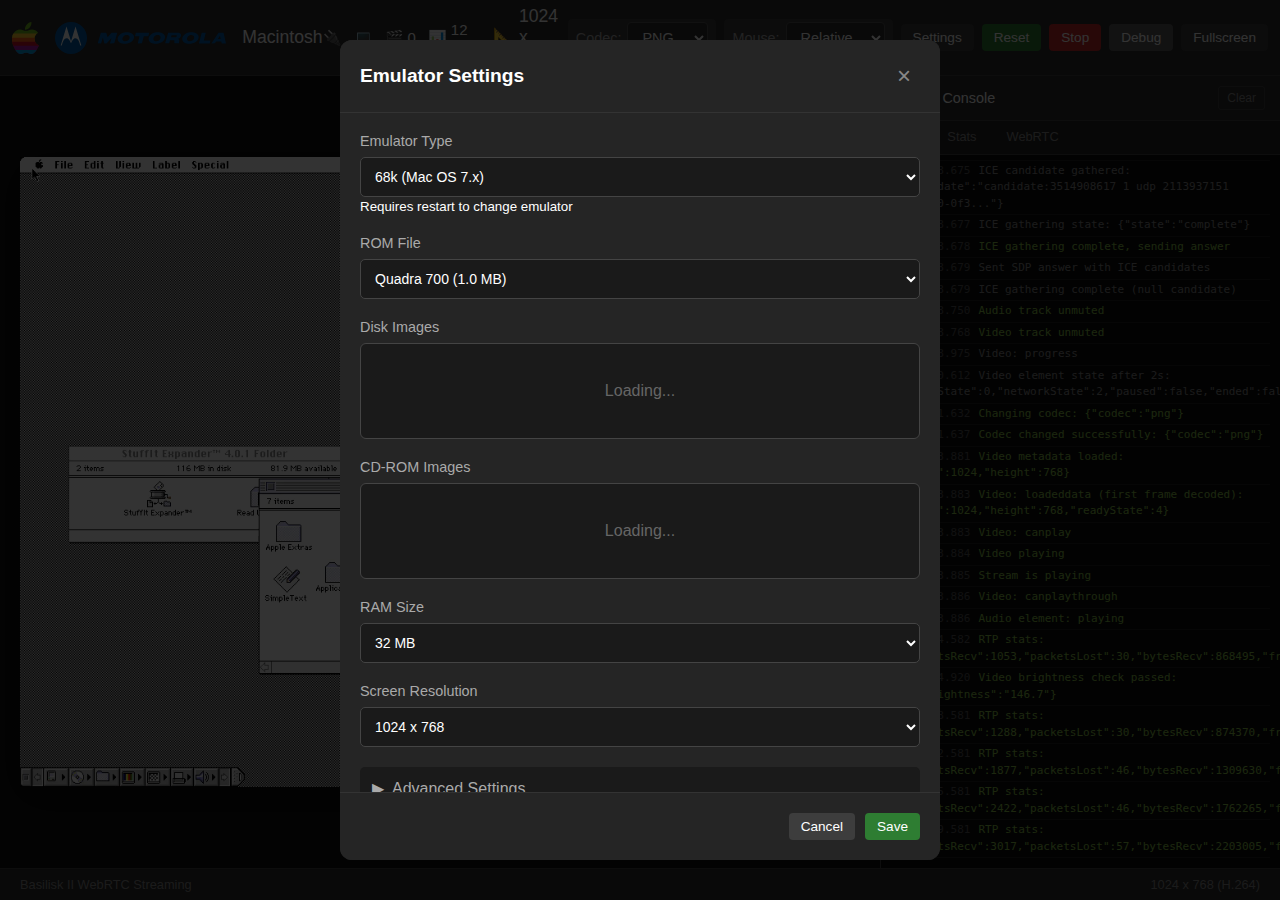
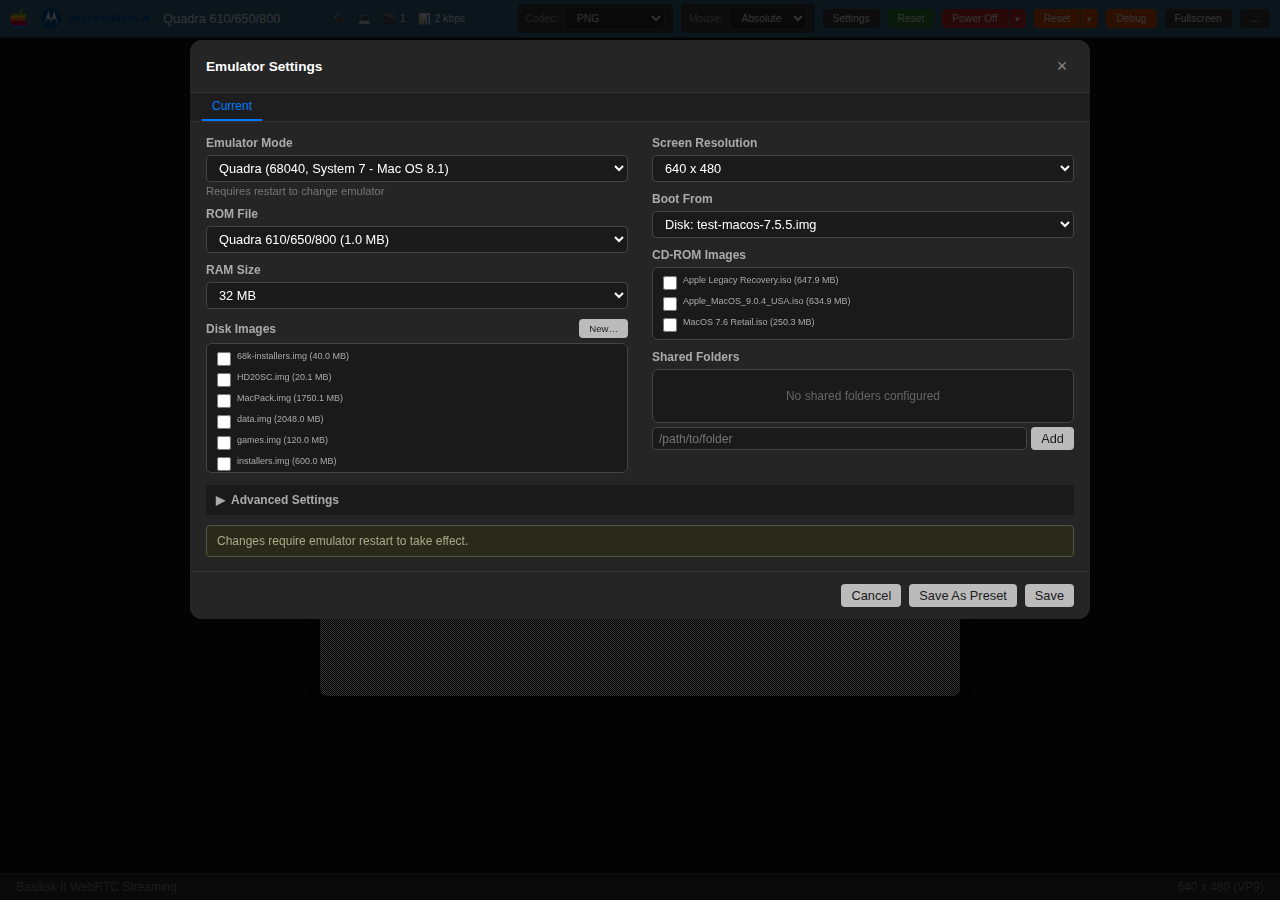
Docs: refresh README for clipboard, audio, graceful shutdown
- Promote the automation bridge feature bullet — TEXT-scrap clipboard
  is now bidirectional (commit 22ef617c) so it's no longer "on the
  roadmap." Graceful shutdown/restart are already listed.
- Add an "Optional audio" feature bullet and --audio CLI flag (audio
  became opt-in in 03940b58).
- Fix dismiss_shutdown_dialog default (true in emulator_config.h, was
  documented as false) and list the --no- variant.
- Document /api/clipboard POST and mac.scrap under /api/status.
- Expand the Logs pane description to list the five debug tabs
  (Clipboard / Log / Stats / WebRTC / Mac).
- Update testing notes: the default disk is macos-7.5.5.img (refreshed
  per-test from .bak by tests/lib/refresh_test_disk.sh, not 7.6.img),
  and the Playwright suite runs ~5 min across 54 specs.

Also refresh docs/images/browser-desktop.png and browser-config.png
from the current UI and extend tests/e2e/take-screenshot.ts with a
--config-output flag so both shots regenerate in one run.

diff --git a/tests/e2e/take-screenshot.ts b/tests/e2e/take-screenshot.ts
@@ -12,6 +12,7 @@
  *   --wait <seconds>    Time to wait after boot before screenshot (default: 15)
  *   --port <number>     HTTP port (default: 18094)
  *   --output <path>     Screenshot output path (default: /tmp/screenshot.png)
+ *   --config-output <p> Also open Settings and capture it to <p>
  *   --dismiss-dialog    Press Return to dismiss startup dialog before screenshot
  */
 
@@ -27,6 +28,7 @@ function parseArgs(): {
   wait: number;
   port: number;
   output: string;
+  configOutput: string | null;
   dismissDialog: boolean;
 } {
   const args = process.argv.slice(2);
@@ -37,6 +39,7 @@ function parseArgs(): {
     wait: 15,
     port: 18094,
     output: '/tmp/screenshot.png',
+    configOutput: null as string | null,
     dismissDialog: false,
   };
 
@@ -59,6 +62,9 @@ function parseArgs(): {
         break;
       case '--output':
         result.output = args[++i];
+        break;
+      case '--config-output':
+        result.configOutput = args[++i];
         break;
       case '--dismiss-dialog':
         result.dismissDialog = true;
@@ -131,11 +137,16 @@ async function main() {
     process.exit(1);
   }
 
-  // Build emulator args
+  // Build emulator args. --config /dev/null so we don't inherit the user's
+  // saved machine profile (which may be set to SE/System 6 etc.).
   const emuArgs = [
+    '--config', '/dev/null',
     '--backend', 'uae',
     '--port', String(opts.port),
     '--signaling-port', String(sigPort),
+    '--screen', '640x480',
+    '--ram', '32',
+    '--dismiss-shutdown-dialog',
     opts.rom,
   ];
   for (const disk of opts.disks) {
@@ -154,8 +165,9 @@ async function main() {
   let exitCode = 0;
   try {
     await waitForServer(opts.port);
-    console.log('Server ready, waiting for boot...');
+    console.log('Server ready, starting CPU...');
 
+    await fetch(`http://localhost:${opts.port}/api/emulator/start`, { method: 'POST' });
     await waitForBoot(opts.port);
     console.log('Booted to Finder.');
 
@@ -179,7 +191,11 @@ async function main() {
       headless: true,
       args: ['--use-fake-device-for-media-stream', '--use-fake-ui-for-media-stream'],
     });
-    const page = await browser.newPage({ viewport: { width: 1280, height: 900 } });
+    // Desktop shot: viewport wide enough for the top toolbar (~1050px worth
+    // of buttons) and tall enough to avoid clipping the status bar, but no
+    // more — a 1280×900 viewport drowns the 640×480 Mac in black. Resized
+    // to 1280×900 for the config shot below.
+    const page = await browser.newPage({ viewport: { width: 1100, height: 680 } });
     await page.goto(`http://localhost:${opts.port}`);
     await page.waitForTimeout(3000);
 
@@ -206,6 +222,16 @@ async function main() {
 
     await page.screenshot({ path: opts.output });
     console.log(`Screenshot saved: ${opts.output}`);
+
+    if (opts.configOutput) {
+      await page.setViewportSize({ width: 1280, height: 900 });
+      const configBtn = await page.$('#config-btn');
+      if (!configBtn) throw new Error('Config button not found in UI');
+      await configBtn.click();
+      await page.waitForTimeout(1500);  // let dropdowns populate from /api/storage
+      await page.screenshot({ path: opts.configOutput });
+      console.log(`Config screenshot saved: ${opts.configOutput}`);
+    }
 
     await browser.close();
   } catch (err) {

diff --git a/README.md b/README.md
@@ -19,7 +19,8 @@ Most-tested guest OS versions: **System 6.0.8**, **System 7.5.5**, **Mac OS 7.6.
 - **Single-port deploy** — HTTP, WebSocket signaling, PNG/WebP frames, and the HTTP-stream fallback all share one TCP listener; trivial to put behind nginx or Caddy
 - **Three transport modes** — WebSocket for PNG/WebP (works through any HTTPS proxy), HTTP long-poll for locked-down networks, WebRTC RTP for H.264/VP9 on LAN
 - **REST API** — boot status, screenshots, config, app launching, and control via HTTP endpoints
-- **Automation bridge** — launch classic apps, graceful guest shutdown and restart, with clipboard integration on the roadmap
+- **Automation bridge** — launch classic apps, graceful guest shutdown and restart, and bidirectional TEXT-scrap clipboard sync between browser and Mac OS
+- **Optional audio** — opt-in Opus-encoded audio streaming over WebRTC (`--audio`)
 - **NAT networking** — optional Unix-socket bridge (smoltcp + NAT) so the guest can reach the Internet without root
 - **Headless mode** — run without any UI for testing and automation
 
@@ -186,7 +187,7 @@ Everything you need for day-to-day use lives in the browser. The top toolbar has
 - **Settings** — machine/ROM/RAM/disks/CDs/screen + an advanced section for CPU backend, FPU, JIT, network, and the automation bridge.
 - **Start / Power Off ▾ / Reset ▾** — the split buttons distinguish a hard kill (immediate `SIGTERM`) from a graceful **Shut Down…** / **Restart…** (routed through the bridge — see below).
 - **Debug** — invokes the Programmer's Key (NMI on 68K, Cmd+Power on PPC).
-- **Logs** — toggles a live debug / stats pane.
+- **Logs** — toggles a live debug pane with tabs for **Clipboard** (bidirectional TEXT scrap sync with the host / browser), **Log**, **Stats**, **WebRTC**, and **Mac** (scrap, WindowList, and command-bridge state).
 - **Fullscreen**.
 
 The Settings dialog supports named presets and saves changes into `~/.config/mac-phoenix/config.json`. Most changes take effect on the next emulator start; codec and mouse mode apply immediately.
@@ -219,7 +220,8 @@ Relative paths resolve against `storage_dir` (`roms/` for ROMs, `images/` for di
 | `mousemode` | `"absolute"` | `"absolute"` or `"relative"` |
 | `http_port` | `11000` | Serves HTTP, `/ws` WebSocket signaling + frames, and `/api/frame` long-poll — one port |
 | `bridge_enabled` | `false` | Enable the automation bridge (see below) |
-| `dismiss_shutdown_dialog` | `false` | Auto-dismiss the improper-shutdown dialog on boot |
+| `audio` | `false` | Enable Opus audio emulation (opt-in) |
+| `dismiss_shutdown_dialog` | `true` | Auto-dismiss the improper-shutdown dialog on boot (set `false` if you want to see it) |
 | `log_level` | `0` | 0 = milestones, 3 = + registers |
 
 Arch-specific fields live under `m68k` / `ppc` sub-objects (`cpu_type`, `fpu`, `modelid`, `jit`, `idlewait`, `ignoresegv`, `swap_opt_cmd`, `keyboardtype`, …). See [docs/JsonConfig.md](docs/JsonConfig.md) for the full schema.
@@ -242,9 +244,11 @@ Arch-specific fields live under `m68k` / `ppc` sub-objects (`cpu_type`, `fpu`, `
   --no-webserver             Headless mode (no HTTP / WebRTC)
   --network MODE             Network: none | socket[:<unix-socket-path>]
   --bridge                   Enable the automation bridge (BridgeAgent + ExtFS)
+  --audio                    Enable audio emulation (Opus over WebRTC; default: off)
   --config PATH              JSON config file (use /dev/null to ignore user config)
   --zap-pram                 Clear PRAM on startup
-  --dismiss-shutdown-dialog  Auto-dismiss improper-shutdown dialog on boot
+  --dismiss-shutdown-dialog / --no-dismiss-shutdown-dialog
+                             Auto-dismiss the improper-shutdown dialog on boot (default: on)
   --screenshots              Dump PPM framebuffer snapshots to /tmp
   --log-level N              Log verbosity 0-3
   --debug-connection         Log WebRTC connection details
@@ -352,6 +356,7 @@ Read-only:
 | `/api/codecs` | GET | Available codecs + which ones were compiled in |
 | `/api/app` | GET | Current foreground application (bridge read command) |
 | `/api/windows` | GET | Window list as JSON (bridge read command) |
+| `/api/status` includes `mac.scrap` | — | Current Mac OS TEXT scrap (MacRoman → UTF-8) — host-side clipboard mirror |
 
 Control / input:
 
@@ -361,6 +366,7 @@ Control / input:
 | `/api/mouse` | POST | Absolute `{"x":N,"y":N}` or relative `{"dx":N,"dy":N}` |
 | `/api/keypress` | POST | `{"key":"return"}` or raw Mac keycode `{"key":36}` |
 | `/api/codec` | POST | Switch video codec |
+| `/api/clipboard` | POST | Write host → Mac OS TEXT scrap (MacRoman-encoded) |
 | `/api/emulator/start` | POST | Start CPU execution |
 | `/api/emulator/stop` | POST | Stop CPU execution |
 | `/api/invoke-debug` | POST | Programmer's Key (NMI / Cmd+Power) |
@@ -433,7 +439,7 @@ ctest --test-dir build
 ctest --test-dir build -V -R api_endpoints
 ```
 
-Tests pick up the ROM and a disk image from `MACEMU_ROM` / `MACEMU_DISK` (or `-DTEST_ROM=...` at `cmake -B build` time). Defaults assume `~/roms/quadra.rom` and `~/storage/images/7.6.img`.
+Tests pick up the ROM and a disk image from `MACEMU_ROM` / `MACEMU_DISK` (or `-DTEST_ROM=...` at `cmake -B build` time). Defaults assume `~/roms/quadra.rom` and the 7.5.5 image; each test run refreshes `~/storage/images/test-macos-7.5.5.img` from `macos-7.5.5.img.bak` (via `tests/lib/refresh_test_disk.sh`) so the pristine image is never mutated.
 
 ### Guest test suite (standalone)
 
@@ -463,7 +469,7 @@ Browser-level tests (WebRTC handshake, Settings dialog, codec switching, mouse i
 npm install
 npx playwright install chromium
 
-# Run the full suite (~2 min; starts its own emulator per spec)
+# Run the full suite (~5 min; starts its own emulator, runs 54 specs)
 npx playwright test
 
 # Debug / UI modes
